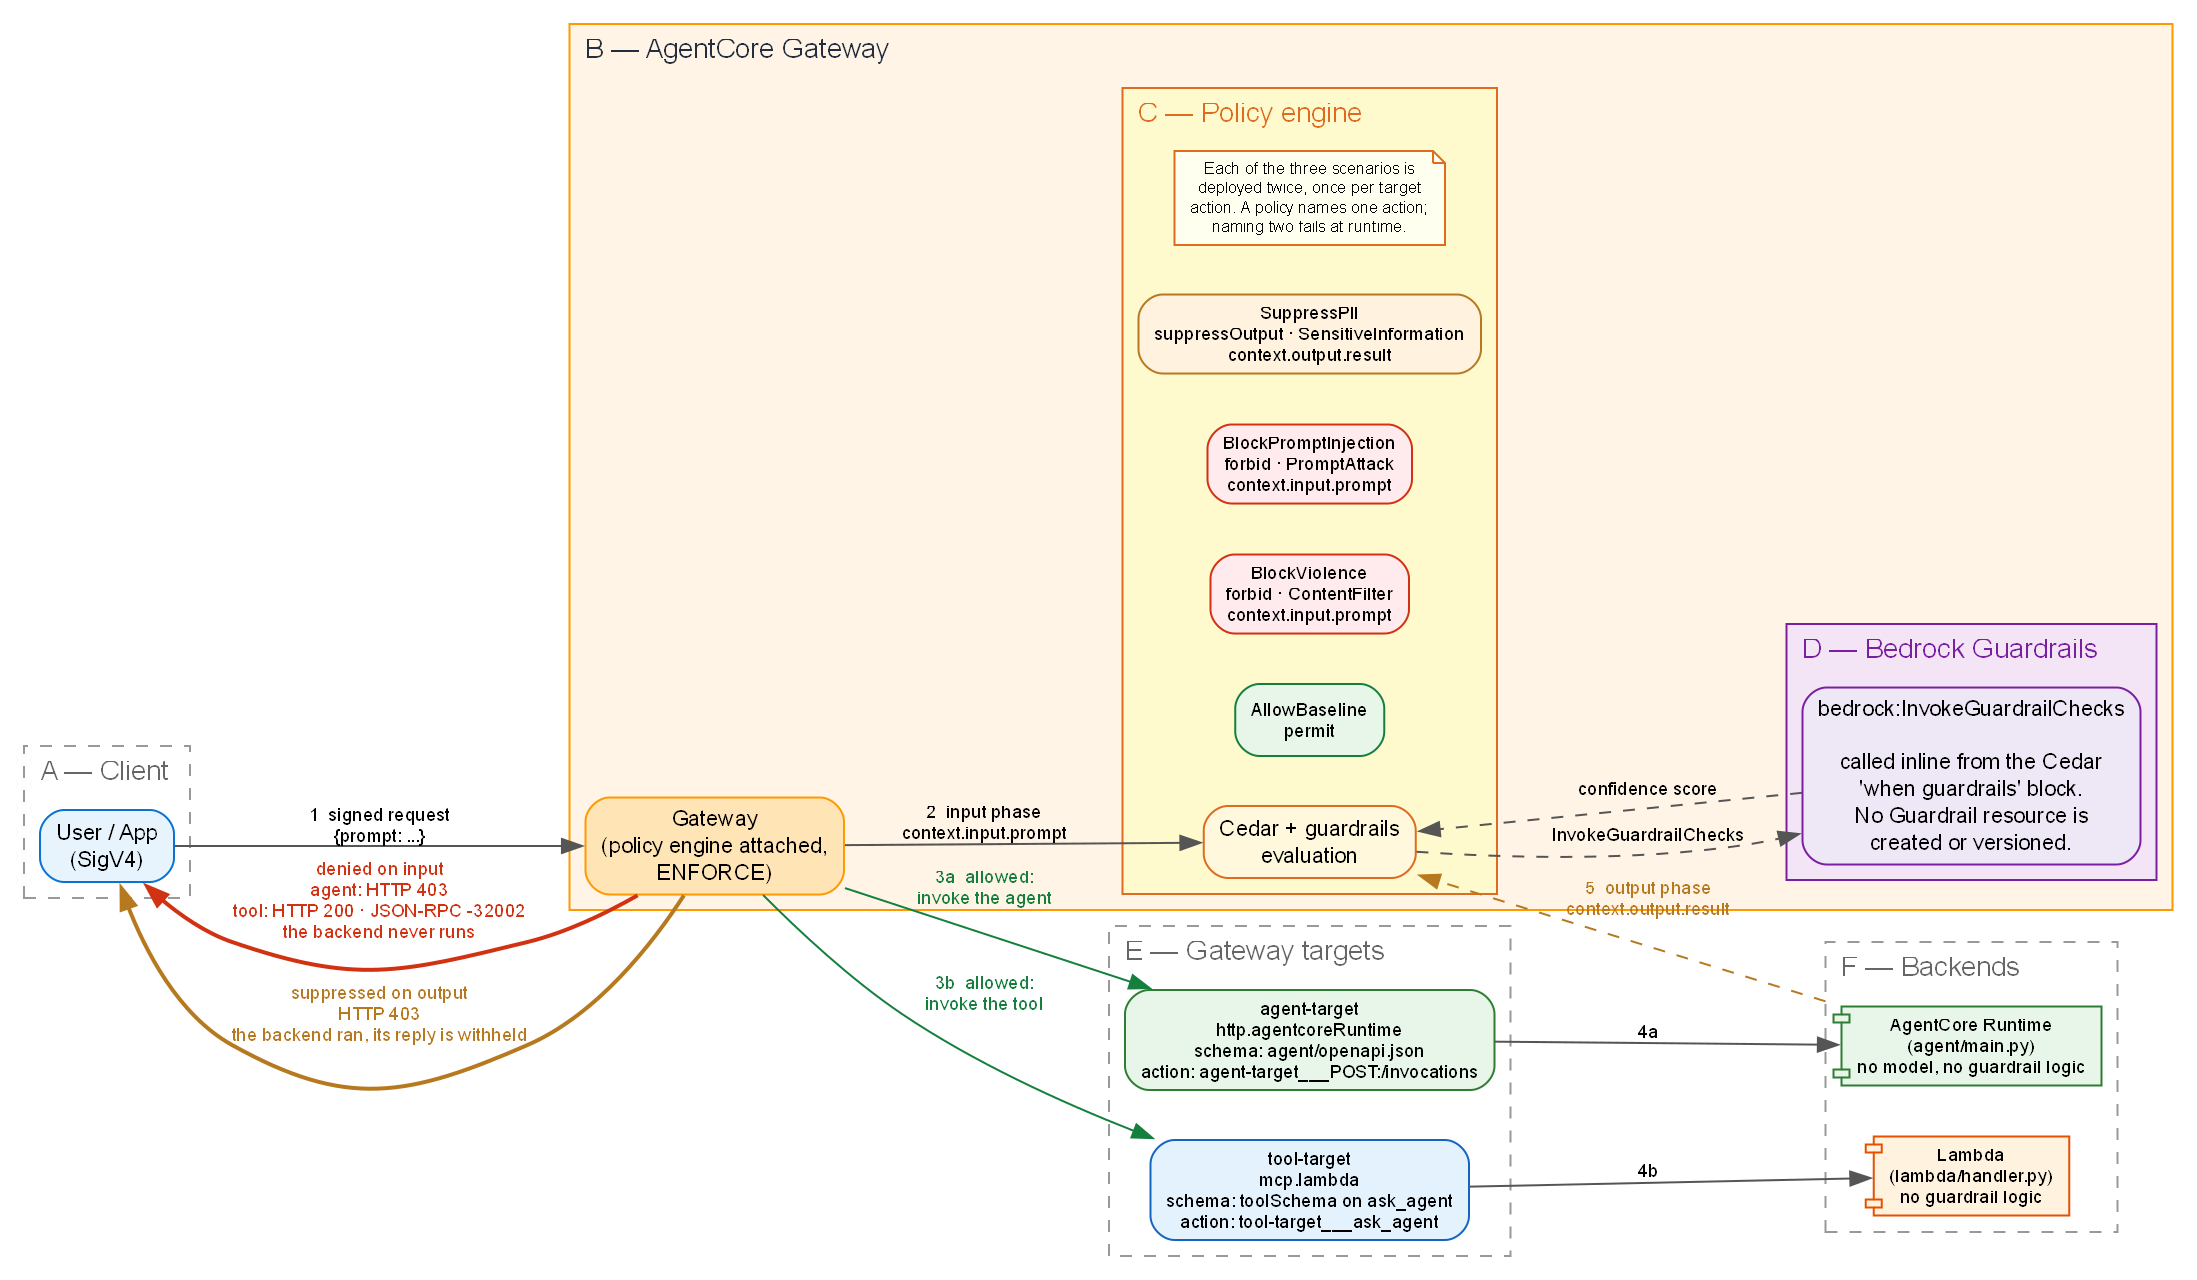
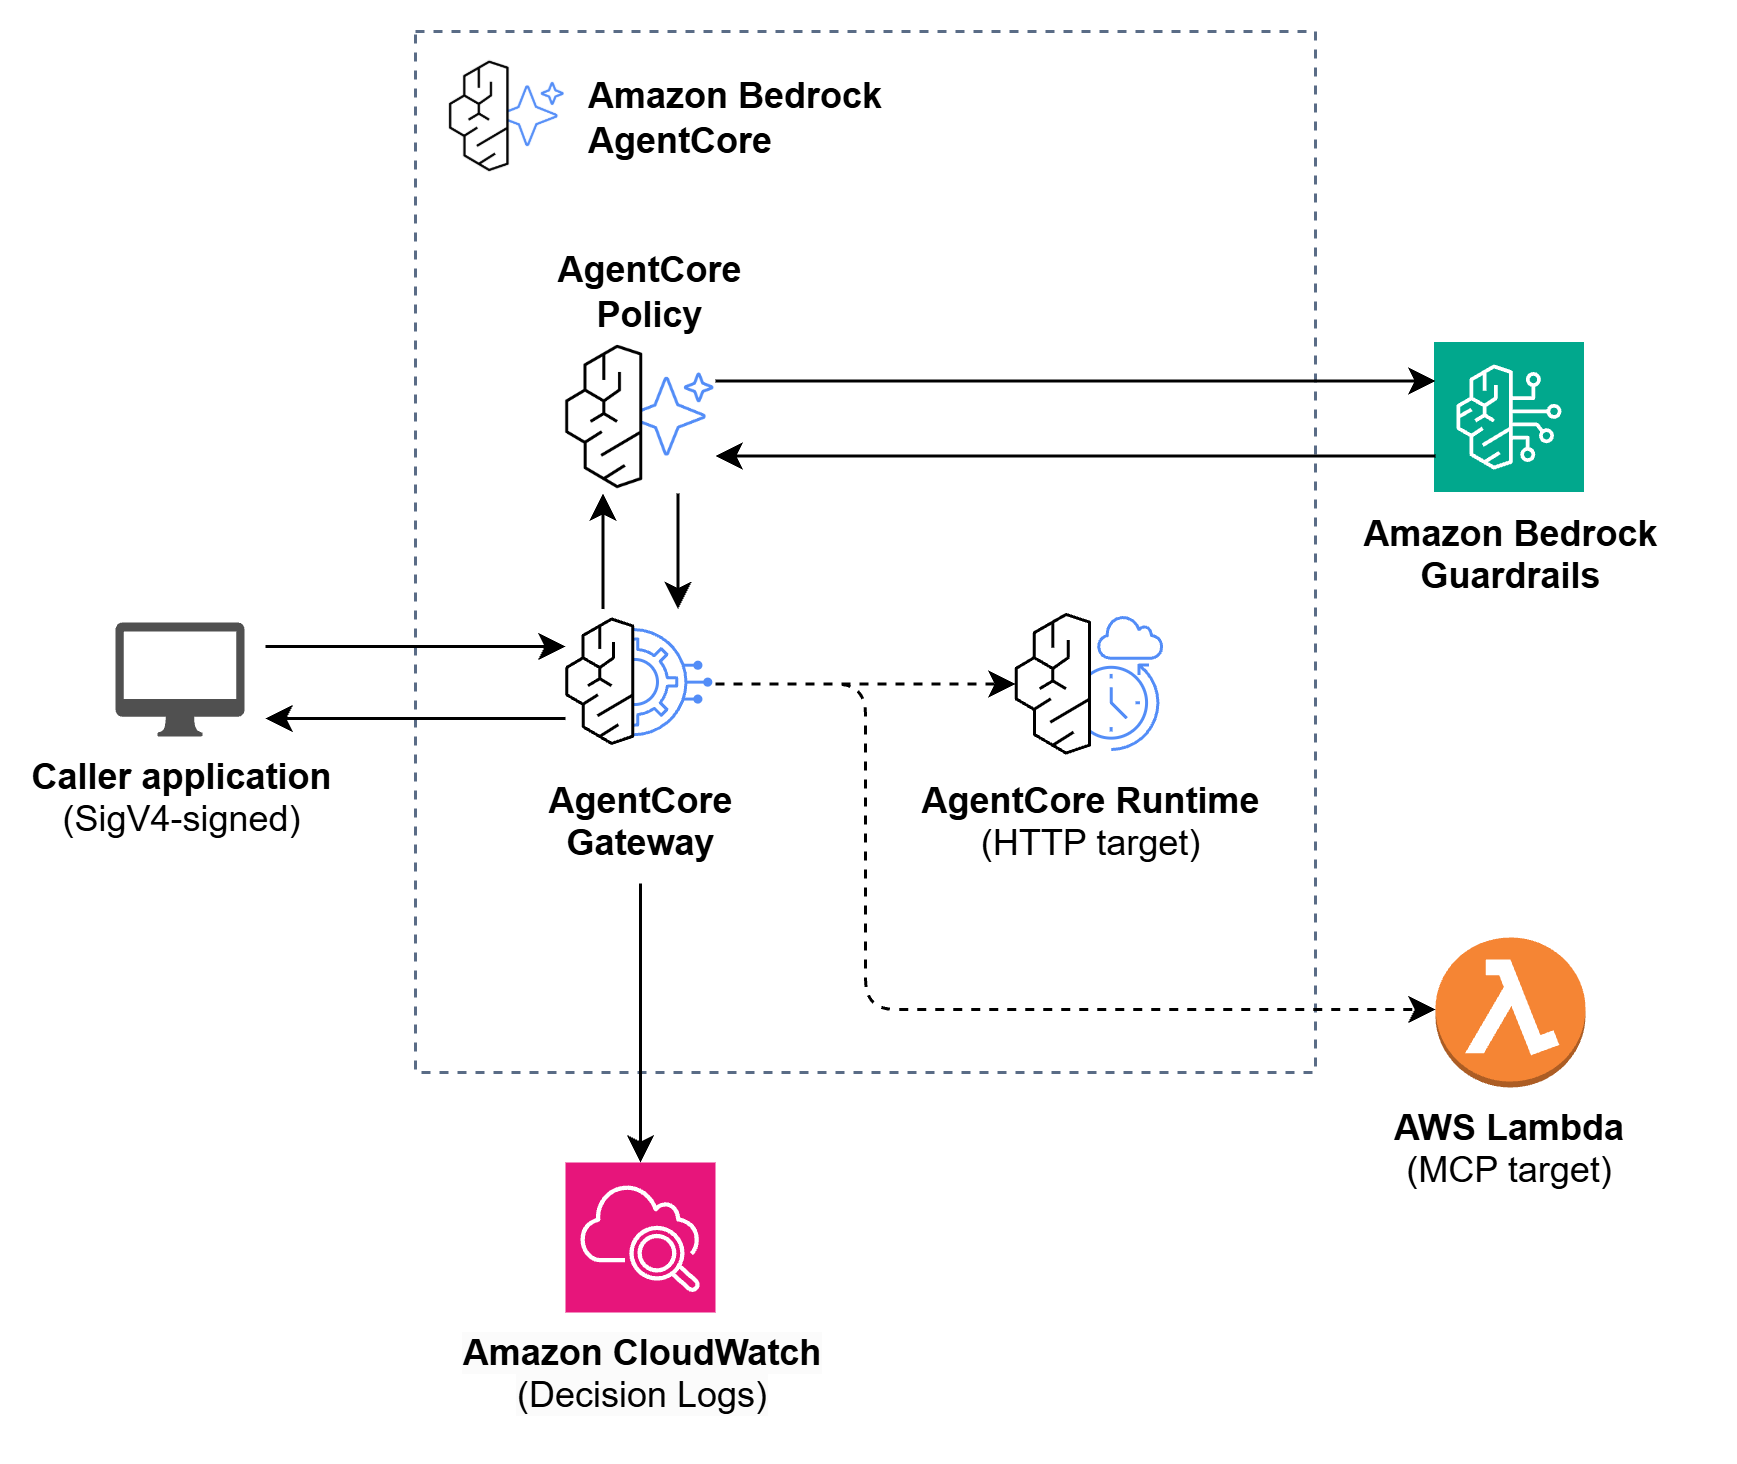
Update documentation with a more streamlined README.md and architecture diagram. (#4)

diff --git a/README.md b/README.md
@@ -1,41 +1,27 @@
-# Bedrock Guardrails enforced at an AgentCore Gateway
+# Enforce content safety with guardrails in AgentCore Policy
 
-This sample demonstrates how to use Amazon Bedrock Guardrails within an Amazon Bedrock AgentCore Gateway to protect agentic workloads and tools.
+This sample demonstrates how to enforce content safety on AgentCore Gateway targets, using Amazon Bedrock Guardrails embedded within AgentCore Policy.
 
 > **Disclaimer:** This is sample code, for non-production usage. You should work with your security and legal teams to meet your organizational security, regulatory and compliance requirements before deployment.
 
-Guardrails provide defense against security and safety risks, including prompt injection attacks and sensitive data exposure. Policy in AgentCore intercepts all agent traffic through Amazon Bedrock AgentCore Gateways and evaluates each request against defined policies in a policy engine, before the request reaches the target. Integrating Guardrails into AgentCore Policy allows evaluation inputs to and outputs from a gateway target (tools, agents, and models). Guardrail results are evaluated in Policy at the AgentCore Gateway, outside the agent's code.
-
-This repository demonstrates use of AgentCore Policy to protect two different types of resources placed behind an AgentCore Gateway: 1/ an AgentCore Runtime hosting an agent; and, 2/ a Lambda function published by the Gateway as an MCP tool. 
-
-| Target | Input phase stops | Output phase stops |
-|---|---|---|
-| `agent-target` | the caller's prompt reaching the agent | the agent's reply reaching the caller |
-| `tool-target` | the caller's prompt reaching the Lambda | the Lambda's response reaching the caller |
+This sample uses AWS CDK to deploy resources within your account. Once deployed, use the walkthrough steps below to examine the use of AgentCore Policy to protect two types of targets placed behind an AgentCore Gateway: 1/ an AgentCore Runtime hosting an agent (HTTP target); and, 2/ a Lambda-backed MCP tool (MCP target). 
 
 ## Architecture
 
-![Architecture](docs/architecture.png)
-
-### Architecture workflow
+<img src="docs/architecture.png" alt="Architecture" width="850">
 
 1. Client signs a request with SigV4 and sends it to the gateway. 
-2. Policy engine evaluates the input-phase policies against `context.input.prompt`, calling `bedrock:InvokeGuardrailChecks` once for each safeguard call in the statement.
-3. On trigger of an input phase guardrail, the request is denied and the backend is never invoked. The agent target returns HTTP 403; the tool target returns JSON-RPC `-32002` inside an HTTP 200; otherwise the gateway invokes the backend target (in this sample, the agent runtime or the Lambda MCP tool).
-4. Before the reply is sent back to the caller, the policy engine evaluates the output-phase policy against `context.output.result`.
-5. On trigger of an output phase guardrail, the reply is withheld with HTTP 403; otherwise the caller receives it.
-
-Note: this architecture does not create standalone Bedrock Guardrail resources. There are no `CreateGuardrail` calls and no guardrail ID or versions to manage. The `BedrockGuardrails::ContentFilter(...)` call inside the Cedar `when guardrails { ... }` block invokes the safeguard directly, using the category and threshold from the policy itself.
+2. Policy engine evaluates the input-phase policies, calling `bedrock:InvokeGuardrailChecks` once for each safeguard call in the statement.
+3. On trigger of an input phase guardrail, the request is denied and the backend is never invoked. 
+4. Before the reply is sent back to the caller, the policy engine evaluates the output-phase policy.
+5. On trigger of an output phase guardrail, the reply is withheld; otherwise the caller receives it.
 
 ## Prerequisites
 
-### Tooling
-
-| Tool | Version | Notes |
-|---|---|---|
-| AWS CLI | v2 | [install](https://aws.amazon.com/cli/) |
-| Node.js and npm | 20 or later | required by `aws-cdk-lib`; `npm ci` in `infra/` installs the rest |
-| Python | 3.12 or later, with `boto3` | for `scripts/run_scenarios.py`; `pip install --upgrade boto3` |
+- An [AWS account](https://signin.aws.amazon.com/signin?redirect_uri=https%3A%2F%2Fportal.aws.amazon.com%2Fbilling%2Fsignup%2Fresume&client_id=signup) with permissions for AWS CloudFormation, Amazon Bedrock AgentCore, AWS Lambda, AWS Identity and Access Management (IAM), and Amazon CloudWatch.
+- [AWS Command Line Interface (AWS CLI) v2](https://docs.aws.amazon.com/cli/latest/userguide/getting-started-install.html) installed and configured.
+- [AWS CDK](https://docs.aws.amazon.com/cdk/v2/guide/getting-started.html) installed.
+- [Node.js 20 or later](https://nodejs.org/) and Python 3.12 or later.
 
 ### AWS CDK bootstrap
 
@@ -47,15 +33,7 @@ npx cdk bootstrap aws://<ACCOUNT_ID>/us-east-1
 
 ### Supported Regions
 
-As of publication, Guardrails in AgentCore Policy are available in five AWS Regions:
-
-| Region | Status |
-|---|---|
-| US East (N. Virginia) us-east-1 | Supported |
-| Europe (London) eu-west-2 | Supported |
-| Europe (Stockholm) eu-north-1 | Supported |
-| Asia Pacific (Sydney) ap-southeast-2 | Supported |
-| Asia Pacific (Tokyo) ap-northeast-1 | Supported |
+As of publication, Guardrails in AgentCore Policy are available in five AWS Regions: US East (N. Virginia) us-east-1; Europe (London) eu-west-2; Europe (Stockholm) eu-north-1; Asia Pacific (Sydney) ap-southeast-2; and, Asia Pacific (Tokyo) ap-northeast-1.
 
 Please refer to the latest documentation for current availability. Source: [Guardrails in policies, regional availability](https://docs.aws.amazon.com/bedrock-agentcore/latest/devguide/policy-guardrails-in-policies.html)
 
@@ -69,13 +47,13 @@ npm ci
 npx cdk deploy
 ```
 
-The deploy creates a CloudFormation stack, `BedrockGuardrails-AgentcoreGateway-Demo`, with the following resources: the agent runtime and its code, the gateway with both targets and their schemas, the policy engine, all seven policies, and the log deliveries that let you see what the gateway decided.
+The deploy creates a CloudFormation stack, `BedrockGuardrails-AgentcoreGateway-Demo`. The stack includes the agent runtime and its code, the gateway with both targets and their schemas, the policy engine, all seven policies, and the log deliveries for inspecting guardrail and policy decisions.
 
 ## Running the sample
 
 ```bash
-python3 scripts/run_scenarios.py --agent                 # Runs scenarios against the agent runtime target (default)
-python3 scripts/run_scenarios.py --tool                  # Runs scenarios against the Lambda MCP tool target
+python3 scripts/run_scenarios.py --agent                 # Runs scenarios against the agent runtime HTTP target (default)
+python3 scripts/run_scenarios.py --tool                  # Runs scenarios against the Lambda-backed MCP tool target
 python3 scripts/run_scenarios.py [--agent OR --tool] "a prompt of your own"  # combines with either flag, but only sends your custom prompt
 ```
 
@@ -98,7 +76,7 @@ Each scenario includes a prompt that should trip the policy and a safe, "control
 
 ### Interpreting the response
 
-Reading the outcome requires interpreting multiple response codes:
+The status code alone does not identify the outcome:
 
 | Outcome | `agent-target` | `tool-target` | Means |
 |---|---|---|---|
@@ -164,34 +142,14 @@ when guardrails {
 };
 ```
 
-Some important notes when developing similar solutions that use Bedrock Guardrails with Agentcore Policy:
-
-- `when guardrails { ... }` replaces `when { ... }`. The two cannot be mixed, and there is no regex
-  or pattern matching inside it. Boolean `||` between score checks is accepted, which is how several
-  categories fit into one policy.
-- Use the `definition.policy` API member. `definition.cedar` rejects `when guardrails`.
-- The action for a Lambda MCP tool target is `<targetName>___<toolName>`, here
-  `tool-target___ask_agent`. `<targetName>___POST:/invocations` is the HTTP runtime target form.
-- The resource must be the full gateway ARN, not a bare ID.
-- A data path has to be declared in a schema on the gateway target. Input paths come from the tool's
-  `inputSchema` and output paths from its `outputSchema`. An undeclared field fails validation with
-  "not present in the context of action".
-- `context.output.result` is the JSON-RPC `result` member of the MCP response, not a field the tool
-  returns. `outputSchema` has to declare a property named `result` of type `string`, and declaring it
-  as `object` is rejected. The declaration is what makes the data path valid; it does not describe the
-  response, which is why the tool here returns `statusCode` / `body` / `event` and no `result` at all.
-  An SSN anywhere in the response trips the policy.
-
+Note: Data path is an attribute of the schema declared by the target. MCP requires a tool schema. HTTP targets need an OpenAPI document that supplies the target's schema. For the supported data paths, see Guardrails in policies in the Amazon Bedrock AgentCore Developer Guide.
 
 ## Project structure
 
 ```
 infra/
   bin/app.ts            Region check, then the stack
-  lib/guardrails-demo-stack.ts   Every resource: the agent runtime, the gateway and both
-                        targets, the Lambda, the policy engine, all seven policies, and a log
-                        delivery for the gateway and for the runtime. The SCENARIOS array and
-                        the Cedar statement builder are here
+  lib/guardrails-demo-stack.ts   Resources required by the stack
   package.json          CDK dependencies; npm ci in this directory
 agent/
   main.py               The agent behind the runtime target. Standard library only, no
@@ -208,8 +166,7 @@ scripts/
                         enforcement point acted and whether the backend ran
   utils.py              The stack name and output lookup both scripts share
 docs/
-  architecture.dot      Graphviz source
-  architecture.png      Rendered diagram
+  architecture.png      Architecture diagram
 ```
 
 ## Cleanup
@@ -233,8 +190,6 @@ npx cdk destroy
 | `AWS::BedrockAgentCore::Policy` — `EnforcementMode`, `ValidationMode`, the name pattern | https://docs.aws.amazon.com/AWSCloudFormation/latest/TemplateReference/aws-resource-bedrockagentcore-policy.html |
 | GA announcement, 17 June 2026 | https://aws.amazon.com/about-aws/whats-new/2026/06/amazon-bedrock-agentcore-policy-guardrails-generally-available/ |
 
-## Authors
+## License
 
-Mohamed Sherif, Sr. Technical Account Manager, AWS Enterprise Support
-
-Michael Butler, Principal Deep Learning Architect, AWS Forward Deployed Engineering
+This library is licensed under the MIT-0 License. See the LICENSE file.
